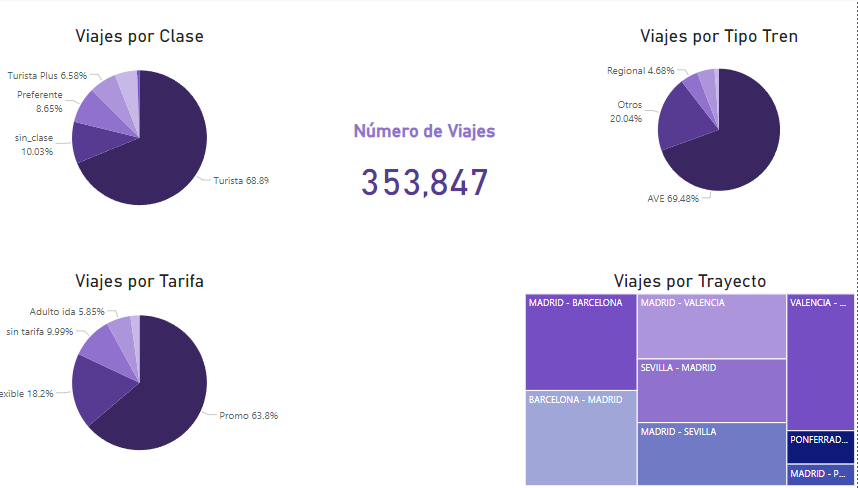
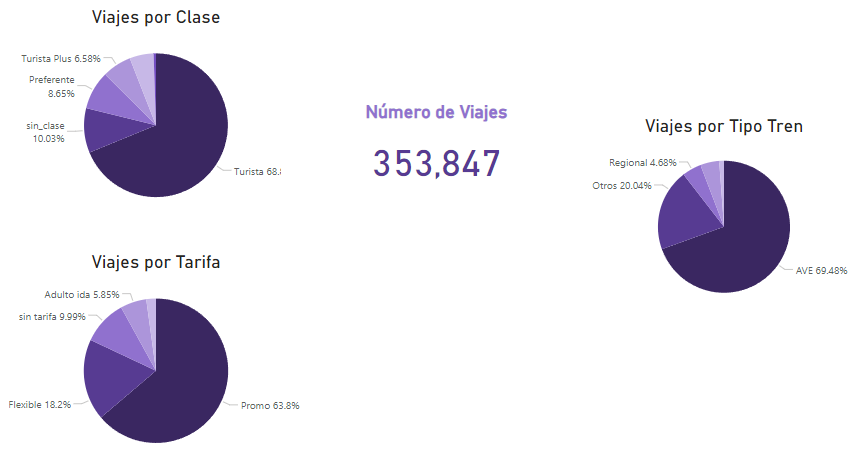
add reports in Power Bi

diff --git a/README.md b/README.md
@@ -1,0 +1,24 @@
+# ABOUT THIS PROJECT
+
+Dataset is a piece of dataset original of Kaggle(about the tickets of tren).
+
+The task is to clean and prepare the data to apply the model, putting the parts de Data Cleaning into practice.
+
+Case for develop: we asume that are a company that wants to compete with Renfe, and we need to know at what price we can offer tickets to win the market
+
+## Workflow
+
+.I worked in `Visual Studio Code` and inside `Jupiter notebooks` 
+.I used `Git`
+.Libraries `Numpy`, `Pandas` , `Seaborn`
+.I show to report in `Power BI`
+
+## Resume
+
+After boarding nulls, duplicates and grouping data and before starting to stantardize my variables, I export  an excel to be able to generate reports in Power BI.
+
+
+### Overview
+
+![Alt text](Report-BI/Portada.png)
+

diff --git a/Report-BI/README.md b/Report-BI/README.md
@@ -7,3 +7,11 @@
 ## Overview about Trip
 
 ![Alt text](resumen_viajes.png)
+
+## Overview Journet
+
+![Alt text](resumen_trayecto.png)
+
+## Overview with Dataset
+
+![Alt text](resumen_versus.png)
